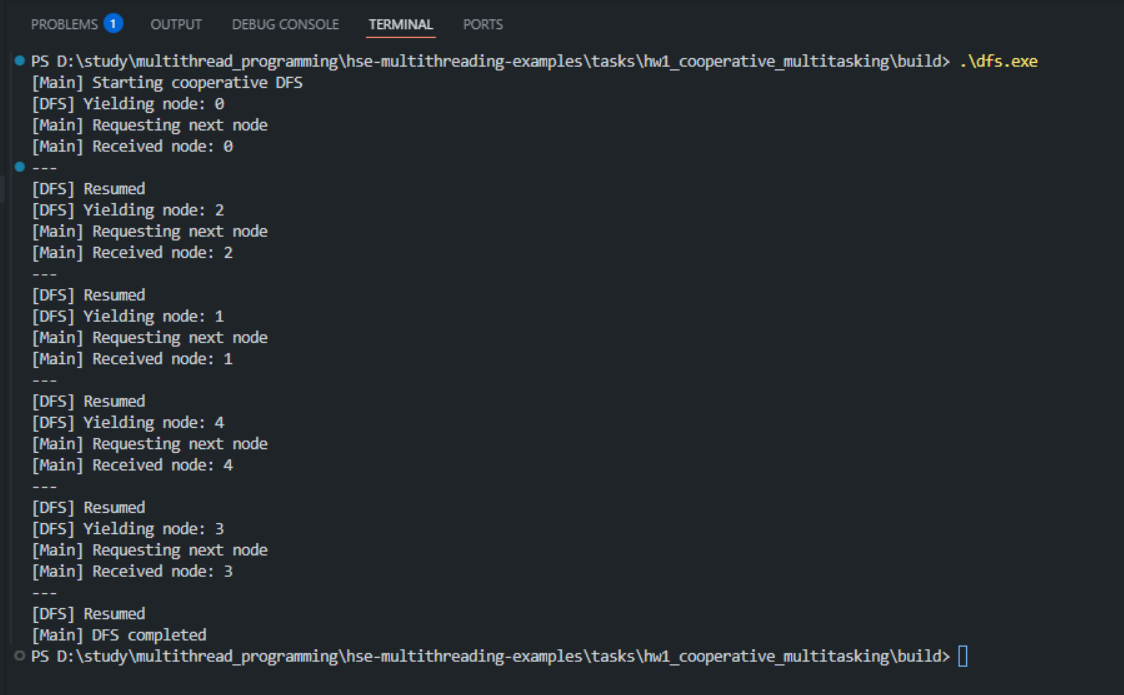
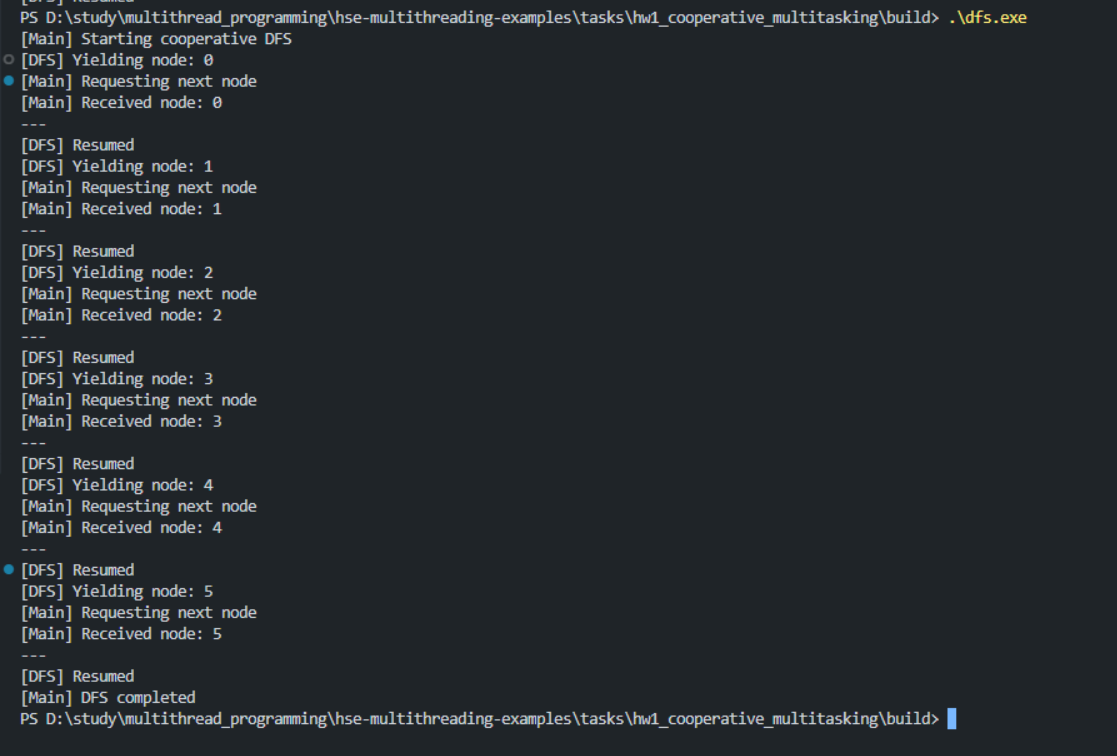
hw1

Changed region(s): [[0.0, 0.0, 0.9132, 0.9669]]

diff --git a/tasks/hw1_cooperative_multitasking/dfs.cpp b/tasks/hw1_cooperative_multitasking/dfs.cpp
@@ -89,11 +89,12 @@ Generator<int> dfs(int start_node, const std::vector<std::vector<int>>& graph) {
 
 int main() {
     std::vector<std::vector<int>> graph = {
-        {1, 2},
-        {0, 3, 4},
-        {0},
-        {1},
-        {1}
+    {1},
+    {2, 1},
+    {3, 2, 1},
+    {4, 3, 2, 1},
+    {5, 4, 3, 2, 1},
+    {4, 3, 2, 1, 0}
     };
 
     std::cout << "[Main] Starting cooperative DFS\n";
